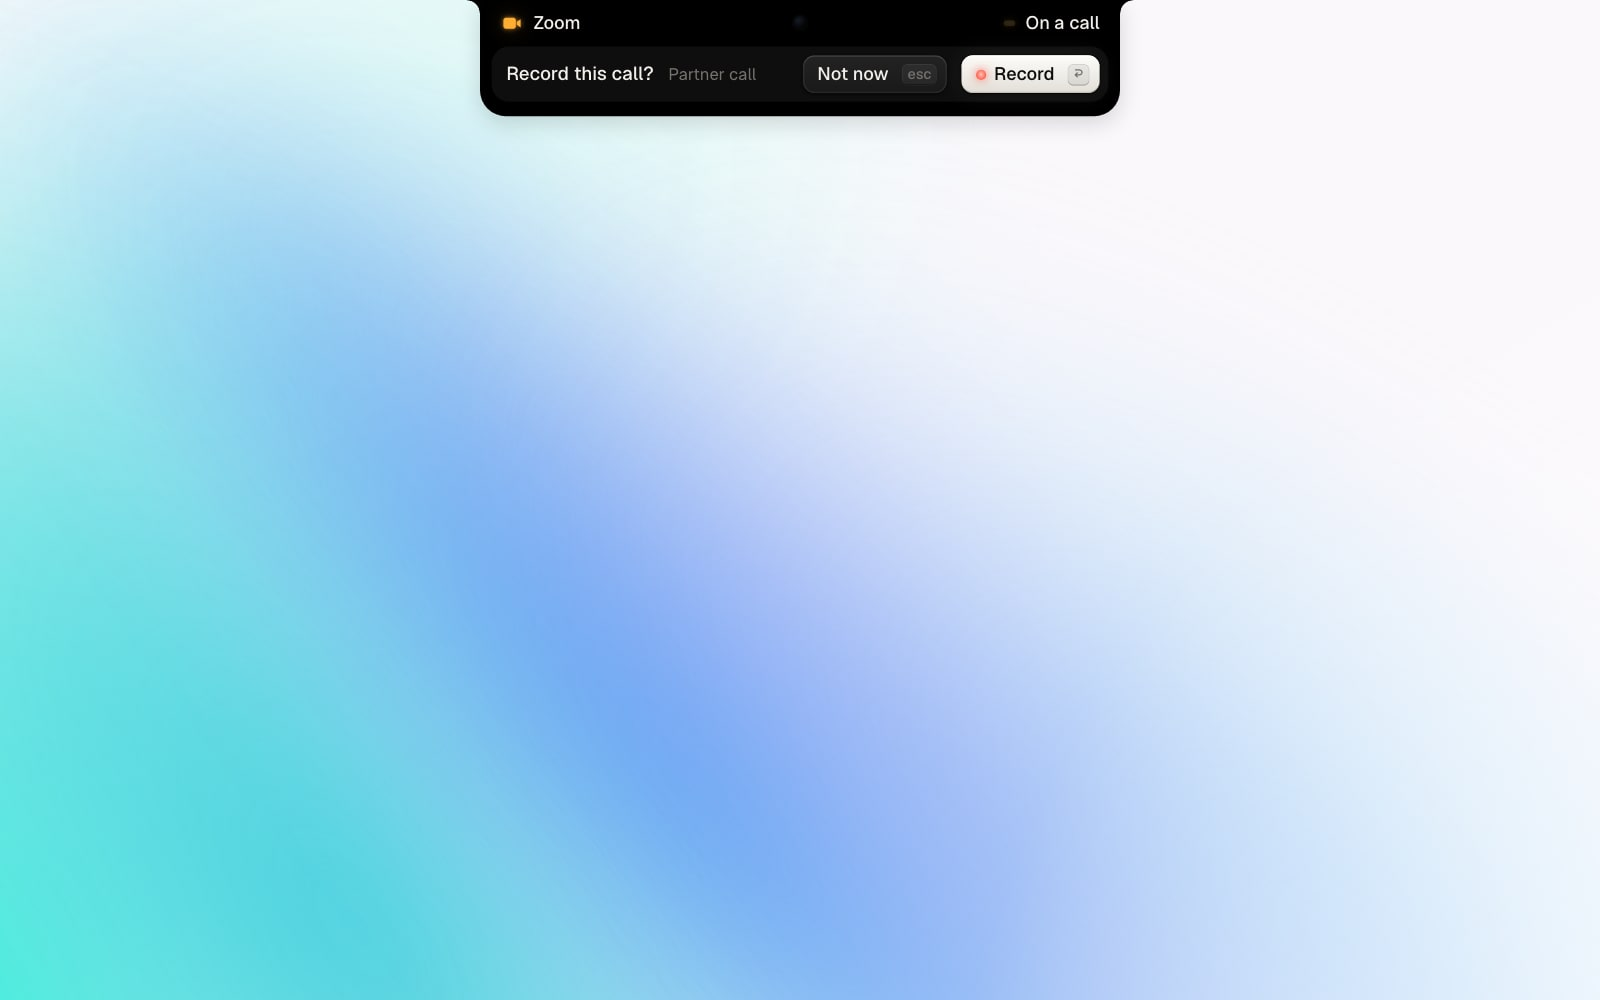
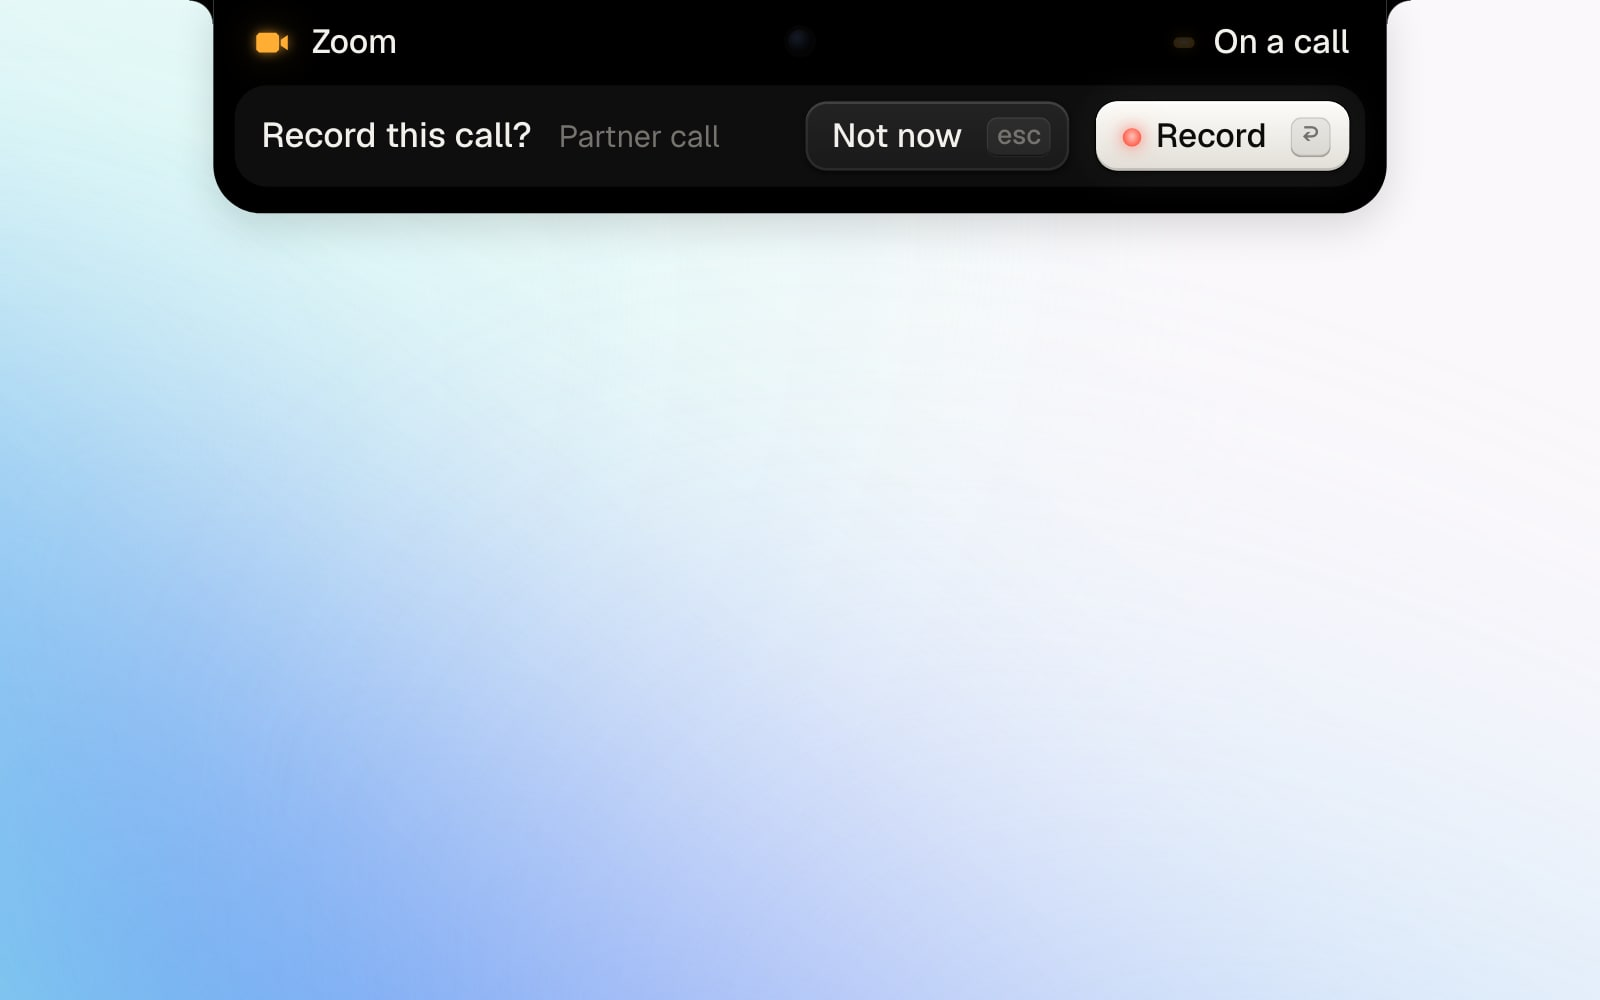
Illustrations: the notch drawn large, each shot cropped to fit its panel

diff --git a/promo/src/Illustration.tsx b/promo/src/Illustration.tsx
@@ -6,15 +6,13 @@ import { camAt } from './timeline';
 
 // One frame size for every picture of the notch (README and website): a 16:10 crop of the
 // film's top centre, the notch hanging from the top edge over the living wallpaper. The
-// film's camera zoom is cancelled, so the notch is the same size in every picture.
+// film's camera zoom is cancelled; each shot picks its own crop (see scripts/illustrations.mjs).
 export const ILLUSTRATION = { width: 1600, height: 1000 };
-const CROP_W = 1100; // film points shown across the picture
-const K = ILLUSTRATION.width / CROP_W;
-
-type Props = { frame?: number; window?: boolean };
+type Props = { frame?: number; window?: boolean; crop?: number };
 
 export const Illustration: React.FC = () => {
-  const { frame = 200, window: showWindow = false } = getInputProps() as Props;
+  const { frame = 200, window: showWindow = false, crop = 1100 } = getInputProps() as Props;
+  const K = ILLUSTRATION.width / crop; // crop = film points shown across the picture
   const s = camAt(frame);
   return (
     <FrameContext.Provider value={frame}>
